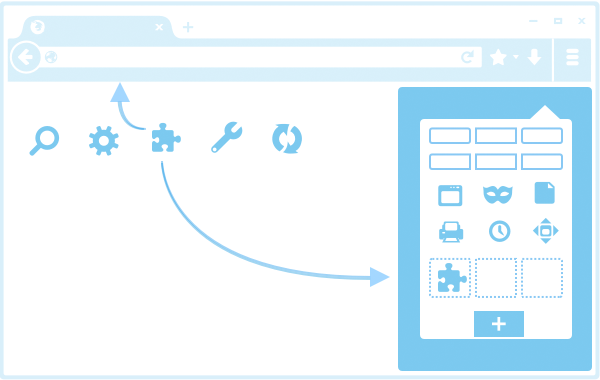
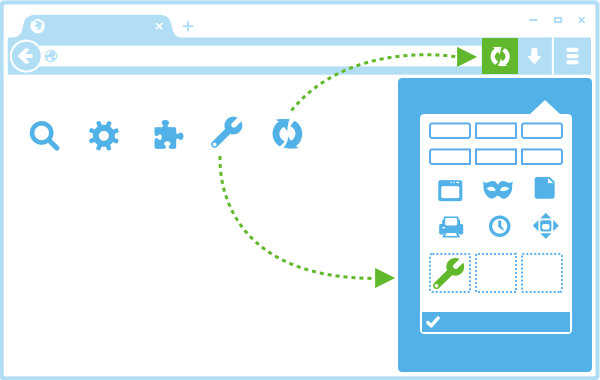
[Australis] Bug 980369: update customize tip illustrations and add an rtl mode version. r=mconley
UltraBlame original commit: 6d86574dc5627367444a074a2b6fa0012cff2276

diff --git a/browser/themes/osx/browser.css b/browser/themes/osx/browser.css
@@ -4265,6 +4265,10 @@ window > chatbox {
     list-style-image: url(chrome://browser/skin/customizableui/customize-illustration@2x.png);
   }
 
+  .customization-tipPanel-contentImage:-moz-locale-dir(rtl) {
+    list-style-image: url(chrome://browser/skin/customizableui/customize-illustration-rtl@2x.png);
+  }
+
   #customization-tipPanel > .panel-arrowcontainer > .panel-arrowbox > .panel-arrow[side="left"],
   #customization-tipPanel > .panel-arrowcontainer > .panel-arrowbox > .panel-arrow[side="right"] {
     list-style-image: url("chrome://browser/skin/customizableui/panelarrow-customizeTip@2x.png");

diff --git a/browser/themes/shared/customizableui/customizeTip.inc.css b/browser/themes/shared/customizableui/customizeTip.inc.css
@@ -46,6 +46,10 @@
   display: -moz-box;
 }
 
+.customization-tipPanel-contentImage:-moz-locale-dir(rtl) {
+  list-style-image: url(chrome://browser/skin/customizableui/customize-illustration-rtl.png);
+}
+
 .customization-tipPanel-link {
   -moz-appearance: none;
   background: transparent;
